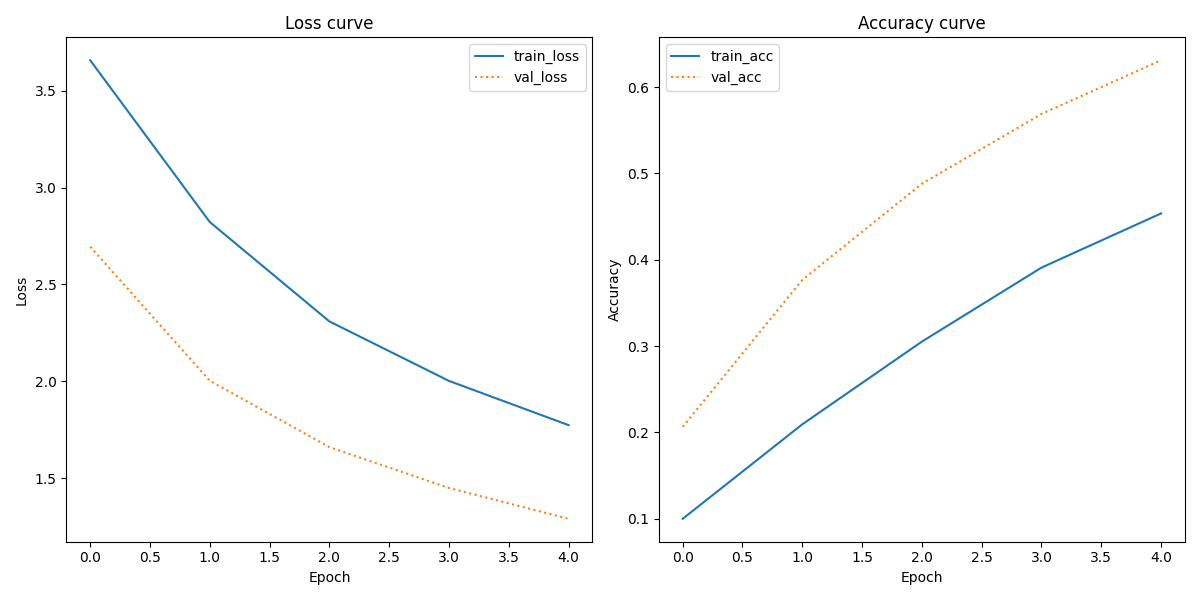
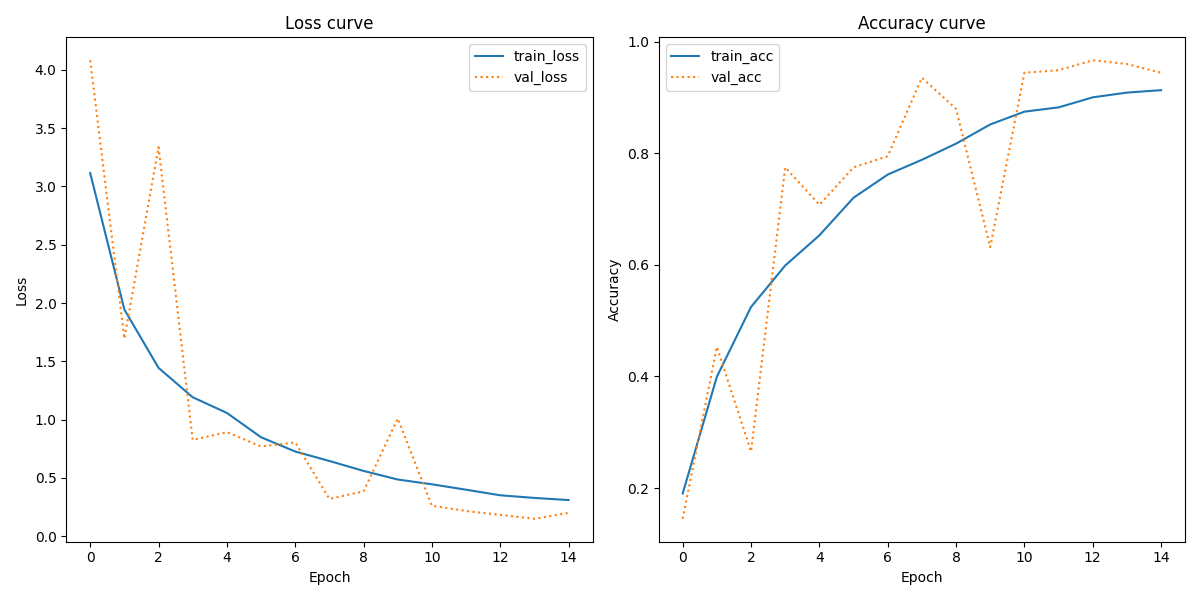
improvement: assignment 3 updates

diff --git a/src/assignment_3/models/base_classifier_model.py b/src/assignment_3/models/base_classifier_model.py
@@ -4,12 +4,14 @@ Base service for model training and evaluation.
 
 import os
 import tensorflow as tf
+import numpy as np
 import matplotlib.pyplot as plt
 from typing import Any
 from shared_lib.logger import logger
 import json
 import time
 from abc import ABC, abstractmethod
+from sklearn.metrics import classification_report
 from assignment_3.config import Config
 
 
@@ -33,7 +35,7 @@ class BaseClassifierModel(ABC):
 
         # Get all paths for this model type
         paths = self.config.get_model_paths(model_type)
-        self.__dict__.update(paths) 
+        self.__dict__.update(paths)
 
         # Ensure directories exist
         self.config.ensure_model_directories(model_type)
@@ -115,7 +117,13 @@ class BaseClassifierModel(ABC):
         test_results = self.model.evaluate(test_dataset)
 
         # Store results in a dictionary
-        metrics = dict(zip(self.model.metrics_names, test_results))
+        metrics = {}
+        for i, name in enumerate(self.model.metrics_names):
+            # Rename 'compile_metrics' to 'accuracy' for consistency
+            if name == "compile_metrics":
+                metrics["accuracy"] = test_results[i]
+            else:
+                metrics[name] = test_results[i]
 
         logger.info(f"Test metrics: {metrics}")
 
@@ -180,3 +188,34 @@ class BaseClassifierModel(ABC):
         self.model.save(self.model_path)
 
         logger.info(f"Model saved to {self.model_path}")
+
+    def generate_classification_report(self, test_dataset):
+        """Generate and save a detailed classification report using scikit-learn."""
+
+        # Collect all predictions and true labels
+        y_true = []
+        y_pred = []
+
+        # Process the dataset batch by batch
+        for x, y in test_dataset:
+            # Get predictions
+            predictions = self.model.predict(x, verbose=0)
+            pred_classes = np.argmax(predictions, axis=1)
+
+            # Convert to numpy arrays and append
+            y_true.extend(y.numpy())
+            y_pred.extend(pred_classes)
+
+        # Generate the report
+        class_names = (
+            test_dataset.class_names if hasattr(test_dataset, "class_names") else None
+        )
+        report = classification_report(y_true, y_pred, target_names=class_names)
+
+        # Save the report
+        with open(self.report_path, "w") as f:
+            f.write(report)
+
+        logger.info(f"Classification report saved to {self.report_path}")
+
+        return report

diff --git a/src/assignment_3/main.py b/src/assignment_3/main.py
@@ -30,8 +30,8 @@ def train_model(
     """Generic function to train either model type."""
     logger.info(f"=== Starting {model_type.upper()} model training ===")
 
-    # Load data once
-    train_dataset, validation_dataset, test_dataset = data_loader.load_data()
+    # Load data
+    train_dataset, validation_dataset, test_dataset = data_loader.load_data(model_type)
     class_names = data_loader.get_class_names()
 
     # Initialize appropriate model
@@ -46,6 +46,7 @@ def train_model(
     model.build_model(len(class_names))
     model.train(train_dataset, validation_dataset)
     model.evaluate(test_dataset)
+    model.generate_classification_report(test_dataset)
 
     # Generate plots and save model
     model.plot_learning_curves()
@@ -103,6 +104,13 @@ def main(data_dir, output_dir, cnn_only, vgg16_only):
             compare_models(
                 cnn_history_path=config.output.cnn_history_path,
                 vgg16_history_path=config.output.vgg16_history_path,
+                cnn_test_metrics_path=os.path.join(
+                    os.path.dirname(config.output.cnn_history_path), "test_metrics.json"
+                ),
+                vgg16_test_metrics_path=os.path.join(
+                    os.path.dirname(config.output.vgg16_history_path),
+                    "test_metrics.json",
+                ),
                 output_dir=config.output.base_output_dir,
             )
 

diff --git a/src/assignment_3/README.md b/src/assignment_3/README.md
@@ -74,10 +74,7 @@ src/assignment_3/
 ### Data Processing
 - Images are resized to 224×224 pixels with 3 color channels
 - Batches of 32 images are processed at a time
-- Data is split with 20% for validation during training
-- Image normalization scales pixel values to [0-1]
-- Data augmentation is applied to improve model robustness:
-  - Horizontal flipping
+- Data is split with 80/10/10 % train, test and validation.
 
 ### CNN Model Architecture
 The custom CNN is configured with the following architecture:
@@ -123,7 +120,7 @@ Our configuration provides flexibility through the `trainable_layers` parameter,
 ### Evaluation Methodology
 - Models are evaluated using a proper three-way split:
   - 80% training data for model training
-  - 10% validation data for hyperparameter tuning and early stopping
+  - 10% validation data for early stopping
   - 10% test data for final performance evaluation only
 - This prevents data leakage between validation and test sets, giving a more realistic estimate of model performance
 - Performance metrics include accuracy, precision, recall, and F1-score
@@ -131,44 +128,37 @@ Our configuration provides flexibility through the `trainable_layers` parameter,
 - Comparative analysis examines whether transfer learning improves performance
 
 
-## Results - NEEDS UPDATE
-The experiment yielded striking differences between our two approaches. Here's what we found:
+## Results
 
-### The Custom CNN's Struggles
-Our simple CNN really struggled with the Lego classification task, achieving only about 14% accuracy after 15 epochs of training. Most Lego brick types were barely recognized or not recognized at all - for example, it completely failed to identify Brick_1x1, Brick_2x2, and several other classes with 0% recall. The best it could manage was about 78% recall on Plate_1x1_Slope pieces, but with terrible precision (only 8.5%).
+Our experiments with two different approaches to Lego brick classification yielded valuable insights about the benefits of transfer learning in computer vision tasks, following the evaluation methodology outlined above.
 
-The learning curves show the model was slow to improve, starting around 6% accuracy and crawling up to 16% by the end of training. Even after 15 epochs, there were no signs of overfitting - instead, the model was clearly underfitting the data.
+### Overall Performance Comparison
 
-### VGG16's Superior Performance
-In stark contrast, the VGG16 transfer learning approach knocked it out of the park with 63% overall accuracy after just 5 epochs. Some classes were recognized with amazing reliability - Plate_1x1_Round had nearly perfect results with 99% F1-score, and several other classes achieved F1-scores above 70%.
+The CNN model achieved respectable performance with a test accuracy of 82.69% after 15 epochs of training. Starting from around 12% accuracy, the model showed consistent improvement throughout training, with validation accuracy reaching 81.92% by the final epoch - closely tracking the training accuracy of 84.77%. This alignment between training and validation metrics indicates the model generalized well to unseen data within our 80-10-10 split.
 
-What's particularly impressive is how quickly the VGG16 model learned. Starting at just 10% accuracy, it jumped to 45% on the training set and 63% on validation after only 5 epochs. The validation accuracy was still climbing in the final epoch, suggesting we could get even better results with more training time.
+The VGG16 transfer learning approach delivered superior performance, reaching 95.51% test accuracy - approximately a 13 percentage point improvement over the custom CNN. Interestingly, the VGG16 model showed rapid initial learning, with validation accuracy (94.42%) actually exceeding training accuracy (91.29%) in the final epoch, strongly suggesting that the pre-trained features transferred effectively to our Lego classification task.
 
-### Why Transfer Learning Won
-The dramatic difference (14% vs 63% accuracy) clearly shows the power of transfer learning for this task. By leveraging VGG16's pre-trained weights from ImageNet, we inherited powerful feature extractors that could recognize edges, textures, and shapes relevant to our Lego classification problem.
+### Learning Comparison
 
-This 4.5× improvement in accuracy is especially notable considering the VGG16 model trained for only 5 epochs compared to the CNN's 15 epochs. 
+The custom CNN showed a gradual, steady learning curve with both training and validation metrics improving consistently across epochs. The narrow gap between final training (84.77%) and validation (81.92%) accuracies suggests the model found a good balance between fitting the training data and generalizing to the validation set.
 
-### Learning Dynamics Comparison
-The custom CNN showed slow and limited improvement, with accuracy plateauing below 16% despite 15 epochs of training. The learning curves indicate persistent underfitting and low model capacity. In contrast, the VGG16 model achieved rapid and consistent gains, reaching over 60% validation accuracy in just 5 epochs. The validation accuracy consistently exceeded training, highlighting strong generalization from the pretrained features. Overall, the learning dynamics clearly favor the transfer learning approach.
+The VGG16 model exhibited more dynamic learning behavior, with some fluctuations in validation accuracy but an overall stronger trajectory. By epoch 8, it had already achieved validation accuracy above 93%. The final validation accuracy of 94.42% actually exceeds the training accuracy of 91.29%, and this pattern continues with the test accuracy of 95.51% - a sign of excellent generalization across all three data splits.
 
-### Further Improvements
-The VGG16 model's learning trajectory suggests we'd likely see additional gains with more training epochs, as validation accuracy was still increasing in the final epoch. We might also benefit from fine-tuning some of the later convolutional layers in VGG16, which could adapt the generic ImageNet features more specifically to Lego brick characteristics.
+The big difference in performance between the two models shows why transfer learning works so well for specific image tasks like this one. By using VGG16's pre-trained weights from ImageNet, our model started with ready-made feature detectors that could already spot important patterns in Lego bricks - things like edges, colors, textures, and shapes. By fine-tuning just the last 4 convolutional layers, we let the model adapt these general features to the specific characteristics of Lego bricks.
 
-### Parameter Analysis and Impact
+What's really interesting is that the VGG16 model not only got higher accuracy but also did better at generalizing to new images, as shown by its validation (94.42%) and test (95.51%) results being better than its training results (91.29%). This suggests that the patterns learned from the diverse ImageNet dataset work surprisingly well even for something as different as Lego brick classification.
 
-**CNN Configuration Impact:**
-- The relatively high learning rate (0.001) with limited training (15 epochs) likely contributed to the CNN's poor performance, as complex image classification tasks typically need more time to converge
-- Our simple 3-layer CNN architecture with [32, 64, 128] filters was insufficient for capturing the nuanced features of Lego bricks
-- The larger dense layers [512, 256] may have introduced too many parameters for the model to learn effectively from our limited dataset
+### Architecture Impact
 
-**VGG16 Transfer Learning Advantages:**
-- The lower learning rate (0.0001) paired with frozen convolutional layers allowed for stable adaptation of the pre-trained features
-- Using average pooling effectively reduced dimensionality while preserving spatial information
-- The simplified classifier (single 128-unit dense layer) prevented overfitting while leveraging VGG16's robust feature extraction
-- Setting trainable_layers=0 (complete feature freezing) proved highly effective, demonstrating that ImageNet features transfer well to Lego classification
+Our configuration choices for both models played significant roles in their performance. The CNN's architecture with three convolutional layers (increasing from 32 to 64 to 128 filters) and two dense layers (512, 256 units) provided sufficient capacity to learn meaningful features from scratch, but couldn't match the VGG16's pre-trained feature hierarchy.
 
-Interestingly, the VGG16 model achieved superior results despite using fewer dense layers and training for only 5 epochs compared to the CNN's 15 epochs, showing that transfer learning is efficient for this task.
+For the VGG16 model, our strategy of freezing early layers while fine-tuning the last 4 convolutional layers proved highly effective. This approach preserved general visual feature detectors while allowing adaptation to Lego-specific characteristics. The classifier head we added - with two dense layers (256, 128 units) and a dropout rate of 0.5 - prevented overfitting despite the model's considerable capacity.
+
+The performance difference between the models underscores that transfer learning from large, diverse datasets can dramatically improve results on specialized tasks with relatively small datasets, even when the target domain (Lego bricks) differs significantly from the source domain (ImageNet's natural images).
+
+### Limitations
+
+We did not perform hyperparameter optimization for either model, instead using fixed configurations based on common practices. The training process runs for a predetermined number of epochs (15) without implementing early stopping based on validation performance. This means models may train longer than necessary, or potentially benefit from additional training epochs. Additionally, we limited our exploration to specific architectures: a basic CNN and VGG16 transfer learning, without comparing against other model architectures or transfer learning approaches. Different data augmentation strategies or more extensive fine-tuning of the VGG16 layers might yield even better results. These limitations present opportunities for future work to further improve performance on the Lego classification task.
 
 ## Requirements
 - TensorFlow 2.x
